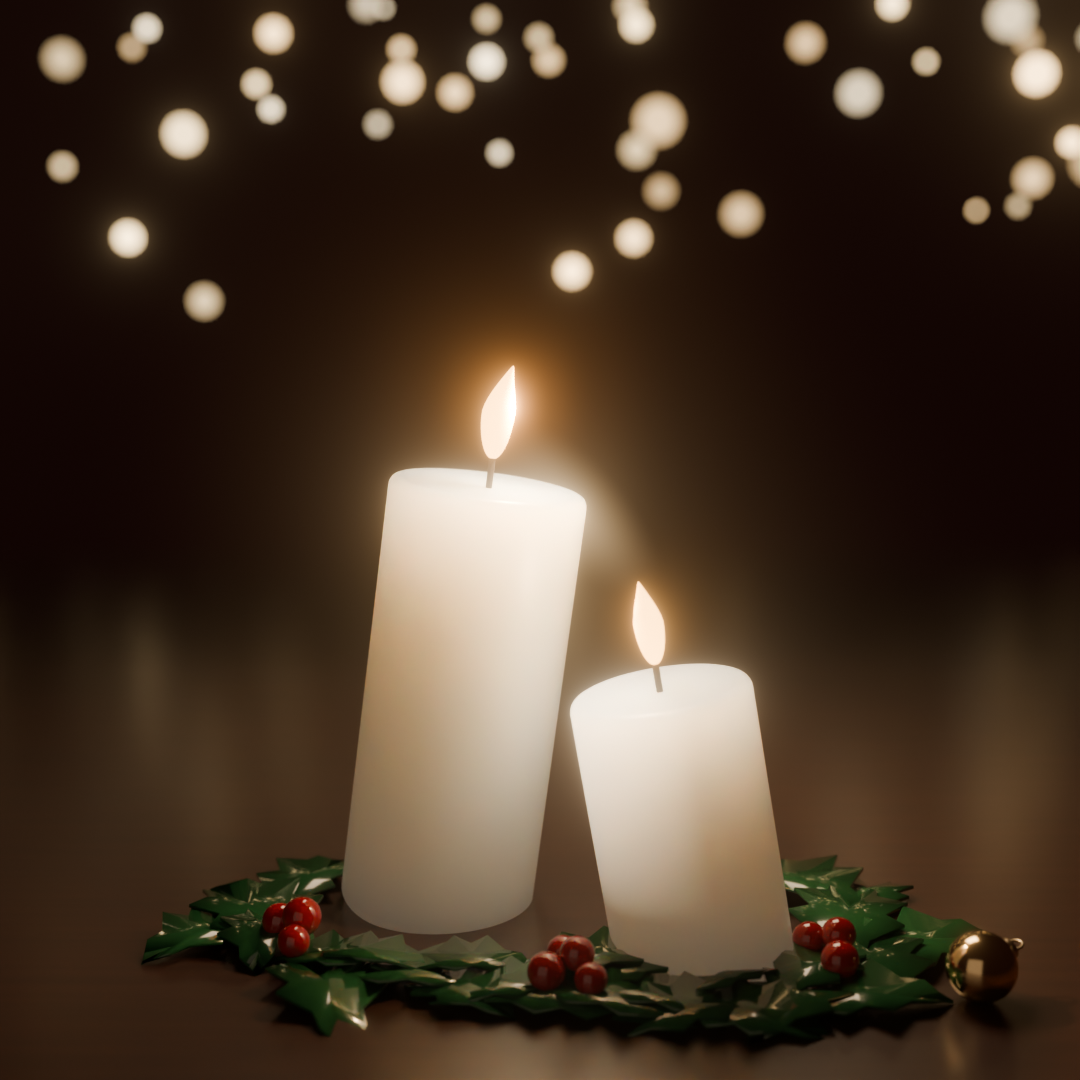
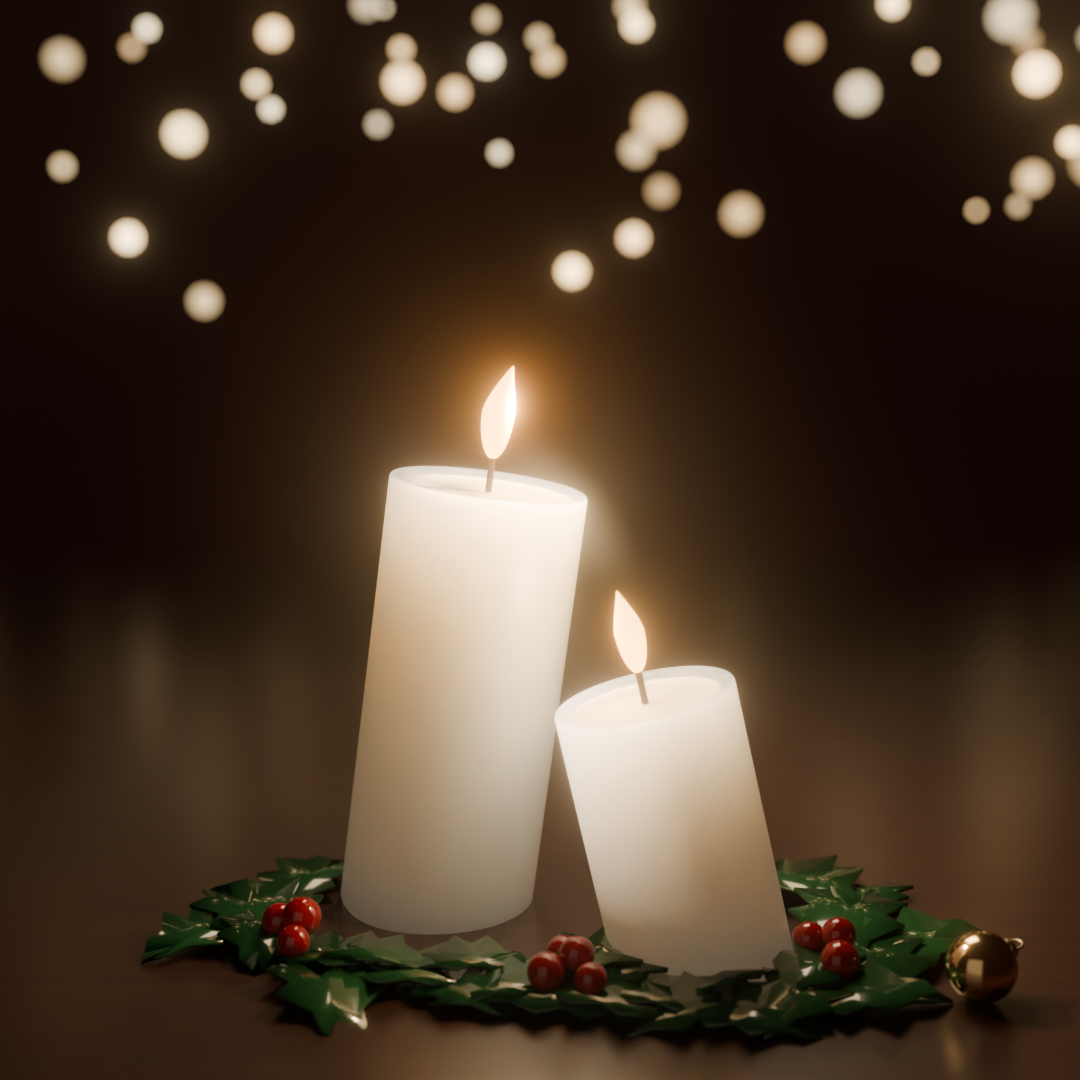
Blind Ant Cards: Christmas With Love round 5, the last AI round
The small candle leans 13 degrees back towards the tall one, and the melt
pools show as soft rims round a glossy pool. Records the GPT and Gemini
checks of round 4 and Charli-Jo's decision that human eyes look next.

Changed region(s): [[0.55, 0.5194, 0.7333, 0.8556], [0.4889, 0.6417, 0.5806, 0.8861], [0.3667, 0.4278, 0.3972, 0.4583]]

diff --git a/blind-ant/studio/cards/designs/christmas-with-love/scene.py b/blind-ant/studio/cards/designs/christmas-with-love/scene.py
@@ -44,6 +44,8 @@ def mat(name, color, rough=0.5, metal=0.0, emit=None, strength=0.0, coat=0.0):
 WICK = mat('Wick', (0.03, 0.02, 0.015), rough=0.9)
 FLAME = mat('Flame', (1, 0.5, 0.12), emit=(1.0, 0.45, 0.10), strength=9)
 FLAME_CORE = mat('FlameCore', (1, 0.85, 0.5), emit=(1.0, 0.80, 0.45), strength=18)
+# Molten wax in the pool: glassy and smooth, catching the flame, glowing a little brighter than the solid wax.
+MOLTEN = mat('Molten', (1.0, 0.86, 0.62), rough=0.04, emit=(1.0, 0.72, 0.40), strength=2.2, coat=1.0)
 LEAF = mat('Holly', HOLLY, rough=0.18, coat=1.0)
 BERRY = mat('Berry', RUBY, rough=0.12, coat=1.0)
 GOLD = mat('Gold', (1.0, 0.76, 0.40), rough=0.14, metal=1.0)
@@ -155,15 +157,16 @@ def candle_mesh(r, h):
     bmesh.ops.create_cone(bm, cap_ends=True, segments=96, radius1=r, radius2=r, depth=h,
                           matrix=Matrix.Translation((0, 0, h / 2)))
     top = [f for f in bm.faces if f.normal.z > 0.9][0]
-    bmesh.ops.inset_region(bm, faces=[top], thickness=0.022, depth=0.0)
-    bmesh.ops.translate(bm, vec=(0, 0, -0.010), verts=list(top.verts))
+    bmesh.ops.inset_region(bm, faces=[top], thickness=0.016, depth=0.0)
+    bmesh.ops.translate(bm, vec=(0, 0, -0.016), verts=list(top.verts))
+    top.material_index = 1          # the pool of molten wax round the wick
     me = bpy.data.meshes.new('candle'); bm.to_mesh(me); bm.free()
     return me
 
 def candle(name, base, h, r, tilt_deg, glow, flame_bend, light_w, flame_scale=1.0, side_glow=0.0):
     pivot = bpy.data.objects.new(name, None); bpy.context.collection.objects.link(pivot)
     c = bpy.data.objects.new(name + '_wax', candle_mesh(r, h)); bpy.context.collection.objects.link(c)
-    c.parent = pivot; link(c, alabaster(name + '_wax', h, glow, r, side_glow)); smooth(c)
+    c.parent = pivot; link(c, alabaster(name + '_wax', h, glow, r, side_glow)); link(c, MOLTEN); smooth(c)
     bv = c.modifiers.new('bevel', 'BEVEL'); bv.width = 0.02; bv.segments = 8; bv.limit_method = 'ANGLE'
     bpy.ops.mesh.primitive_cylinder_add(vertices=24, radius=0.004, depth=0.045, location=(0, 0, h + 0.008))
     w = bpy.context.object; link(w, WICK); w.parent = pivot
@@ -187,7 +190,7 @@ def candle(name, base, h, r, tilt_deg, glow, flame_bend, light_w, flame_scale=1.
 # its flame bending towards the small one to share its light.
 candle('Tall', (-0.13, 0.12), 0.54, 0.118, tilt_deg=7.5, glow=0.9, flame_bend=0.55, light_w=16, flame_scale=1.08)
 # The smaller candle: in front, leaning gently back towards the tall one.
-candle('Small', (0.19, -0.05), 0.34, 0.102, tilt_deg=-10.0, glow=0.9, flame_bend=-0.2, light_w=6, flame_scale=0.92, side_glow=2.2)
+candle('Small', (0.19, -0.05), 0.34, 0.102, tilt_deg=-13.0, glow=0.9, flame_bend=-0.2, light_w=6, flame_scale=0.92, side_glow=2.2)
 
 # The shared light is in the small candle's wax (side_glow): the side facing the tall one glows warm.
 
@@ -195,7 +198,7 @@ candle('Small', (0.19, -0.05), 0.34, 0.102, tilt_deg=-10.0, glow=0.9, flame_bend
 # The shared light, made visible: a soft warm haze in the air from the tall flame to the small one.
 # It's a camera-only card (it lights nothing), shaped as a soft ellipse along the line between the flames.
 def shared_glow():
-    a = Vector((-0.06, 0.12, 0.60)); b = Vector((0.13, -0.05, 0.40))
+    a = Vector((-0.06, 0.12, 0.60)); b = Vector((0.11, -0.05, 0.40))
     mid = (a + b) / 2
     bpy.ops.mesh.primitive_plane_add(size=1, location=mid)
     g = bpy.context.object; g.name = 'SharedGlow'

diff --git a/blind-ant/studio/cards/PLAN.md b/blind-ant/studio/cards/PLAN.md
@@ -7,7 +7,7 @@ The single, current plan for Blind Ant Cards. It merges Charli-Jo's *Build Brief
 - **Launch:** Tuesday 1 December 2026, with the Christmas collection. Confirmed by Charli-Jo.
 - **Milestone 1 (the PDF proof) is done:** a tagged, real-text PDF made in the browser with PDFKit. Charli-Jo tested it on iPhone with VoiceOver (Files, Mail, WhatsApp, how it looks, Share): **"everything works perfectly."** See `REPORT-milestone-1.md`.
 - **Layout 2 and the first Blender picture are made:** *Christmas With Love* (`designs/christmas-with-love/`, `layout-2/`, `samples/christmas-with-love.pdf`). GPT read the PDF and described it accurately: nothing clipped, the headline clear of the flames. **A sighted person is checking it next.** No screen reader has read layout 2 yet.
-- **5 November: the Sloppy Jo style goal and Christmas With Love round 2.** Charli-Jo set the *Sloppy Jo vision* (Synthetic Realism) as the style goal for the pictures. Round 1 was reviewed against it (competent, not yet convincing) and rebuilt as round 2: the two candles lean in together, the taller one just behind as if protecting the smaller and sharing its light (Charli-Jo's idea). The description was rewritten first. The sample PDF still uses round 1 until it's remade. Round 3 had a sighted check, with no hint of the idea (`designs/christmas-with-love/sighted-check-r3.md`): the protective lean and the shared light both read. Its seven words were love, warmth, togetherness, tenderness, peace, hope and remembrance. **Charli-Jo likes "remembrance"**, so the card may hold that meaning too. Round 4 fixes what didn't read.
+- **5 November: the Sloppy Jo style goal and Christmas With Love round 2.** Charli-Jo set the *Sloppy Jo vision* (Synthetic Realism) as the style goal for the pictures. Round 1 was reviewed against it (competent, not yet convincing) and rebuilt as round 2: the two candles lean in together, the taller one just behind as if protecting the smaller and sharing its light (Charli-Jo's idea). The description was rewritten first. The sample PDF still uses round 1 until it's remade. Round 3 had a sighted check, with no hint of the idea (`designs/christmas-with-love/sighted-check-r3.md`): the protective lean and the shared light both read. Its seven words were love, warmth, togetherness, tenderness, peace, hope and remembrance. **Charli-Jo likes "remembrance"**, so the card may hold that meaning too. Round 4 fixes what didn't read. Round 4 was checked by GPT and Gemini (`sighted-check-r4.md`); round 5 strengthened the small candle's lean and made the melt pools visible. **Charli-Jo: round 5 is the last AI round; next, human eyes look at it.** Not yet approved.
 - **Not done:** NVDA with Acrobat and Edge; veraPDF (needs portable Java, about 105 MB of downloads, waiting for Charli-Jo's go-ahead); PAC; Android and Windows sharing.
 - **Code:** branch `claude/cards-pdf-proof`, pull request Carrados/Charli.info#38. Everything is under `blind-ant/studio/`, which is never published. Charli-Jo merges pull requests themself (Claude's merges are blocked by auto mode).
 

diff --git a/blind-ant/studio/cards/designs/christmas-with-love/README.md b/blind-ant/studio/cards/designs/christmas-with-love/README.md
@@ -4,12 +4,13 @@
 - **Description** (written first; the scene is built to match it, and it is the card's alt text):
   Two lit ivory candles lean towards each other on a dark wooden table, the taller one just behind as if sheltering the smaller and sharing its light, among glossy holly leaves, red berries and a small gold bauble, with soft golden lights blurred in the darkness above.
 
-## Intent (Sloppy Jo, rounds 2 to 4, 5 November 2026)
+## Intent (Sloppy Jo, rounds 2 to 5, 5 November 2026)
 
 - **The love:** the two candles lean in together. The taller one stands slightly further back, as if protecting the smaller one, and gives it some of its light: its flame bends towards the small one and its warm light falls on the small candle's near side. (Charli-Jo's idea, 5 November 2026.)
 - **Palette, in one sentence:** ivory and amber-gold candlelight on deep oxblood-black, with deep holly green and ruby berries as the only accents.
 - **Focal point:** the taller flame bending towards the smaller one.
 - **Treatment:** Jewel Box. The wax is luminous alabaster that stays ivory all the way down, the holly is glossy and lacquered in a crescent wholly in the frame, there's one true-gold bauble, and the lighting is theatrical, from the flames themselves. The blurred lights gather in the top third, behind the headline.
+- Round 5 (5 November), the last AI round (Charli-Jo): the small candle leans 13 degrees back towards the tall one, and the melt pools show as soft rims of wax round a glossy pool. Next: human eyes.
 - Round 4 (5 November) fixed what the sighted check (sighted-check-r3.md) found: the small candle now clearly leans back towards the tall one, a higher camera shows the round tops, the bauble has a cap and loop, the holly is one folded, glossy garland with spaced berries, and the blurred lights vary in size and brightness. Charli-Jo likes "remembrance" among the meanings the check found.
 - Round 3 (5 November) made the shared light visible as a soft warm haze from the tall flame to the small one, balanced the blurred lights, melted the far table into the dark, and kept the small candle's far side warm.
 - Round 1 (4 November) was reviewed against Sloppy Jo on 5 November: competent, not yet convincing (muddy wax, an under-lit scene, stray pink, holly cut off at the bottom).

diff --git a/blind-ant/studio/cards/designs/christmas-with-love/review-r5-sloppy-jo.md b/blind-ant/studio/cards/designs/christmas-with-love/review-r5-sloppy-jo.md
@@ -1,0 +1,23 @@
+# Christmas With Love, round 5: review against the Sloppy Jo vision
+
+Reviewed by Claude on Thursday 5 November 2026, from the final render (`master.png`, 1080 × 1080, 160 samples). **The last AI round** (Charli-Jo's decision). Next, human eyes. Not yet approved: only Charli-Jo approves.
+
+## What changed from round 4
+
+- **The lean is unmistakable.** The small candle now leans 13 degrees back towards the tall one. Its top-left corner comes just in front of the tall candle's right side, so the two candles read as tilting into each other, almost touching at the top.
+- **The tops read as burning.** Each top shows a soft raised rim of wax around a shallow, glossy pool, with the wick standing in it.
+
+Everything else is as in round 4: luminous ivory alabaster wax; the tall flame bending towards the small one; the warm haze between the flames; a continuous garland of glossy, folded holly with three berry clusters; a gold bauble with cap and loop at the right; varied cream-gold blurred lights across the top third; deep oxblood-black fading to a warm table.
+
+**Alt text (unchanged and true):** Two lit ivory candles lean towards each other on a dark wooden table, the taller one just behind as if sheltering the smaller and sharing its light, among glossy holly leaves, red berries and a small gold bauble, with soft golden lights blurred in the darkness above.
+
+## Verdict
+
+All seven Sloppy Jo principles pass at card size. The focal point is the two flames tilting together, with the tall one's light reaching the small one. The palette is one sentence: ivory and amber-gold candlelight on deep oxblood-black, with deep holly green and ruby berries as the only accents. The headline area (top 29%) stays clear of the tall flame.
+
+## What human eyes should judge
+
+- Does the lean read at a glance, and does it feel tender rather than precarious? At 13 degrees, the small candle could look as if it's falling.
+- Does the haze between the flames read as shared light?
+- Does the holly feel crafted or artificial?
+- Anything that looks odd.

diff --git a/blind-ant/studio/cards/designs/christmas-with-love/sighted-check-r4.md b/blind-ant/studio/cards/designs/christmas-with-love/sighted-check-r4.md
@@ -1,0 +1,25 @@
+# Christmas With Love, round 4: AI describer checks
+
+On Thursday 5 November 2026, Charli-Jo gave the round 4 picture to two AI describers, GPT and Gemini.
+
+## GPT
+
+- Called it an improvement and "the stronger Christmas card illustration": more substantial candles with convincingly rounded tops, holly that "embraces both of them" like a wreath, clearly separated berry clusters, and fairy lights suggesting a world beyond.
+- Emotionally, it moved from "two candles standing together" to "two candles belonging together".
+- Advised staying with stylised illustration rather than chasing photorealism.
+- Flagged: flat, unburnt-looking tops; angular holly; and it read the small candle as leaning right, "away" from the tall one.
+
+## Gemini
+
+- Read the lean exactly as intended: the tall candle tilts right, and the shorter one "tilts slightly to the left, leaning gently toward the taller one".
+- Its description matched the alt text throughout: three berry clusters (left, centre, right), a tiny gold bauble at the right, the table blending seamlessly into the background, and fairy lights across the top third.
+
+## What round 5 did about it
+
+- The small candle's lean was increased from 10 to 13 degrees, so the two tilt into each other unmistakably. The geometry was already right (checked by eye from the corners), but one describer missing it meant it was on the edge of noticeable.
+- The melt pools were made visible (deeper, with a glossy molten-wax floor), so the tops read as burning.
+- The angular holly was kept as deliberate stylisation: lacquered and sculpted.
+
+## Decision
+
+**Charli-Jo, 5 November 2026: round 5 is the last AI round.** The next check is by human eyes.
